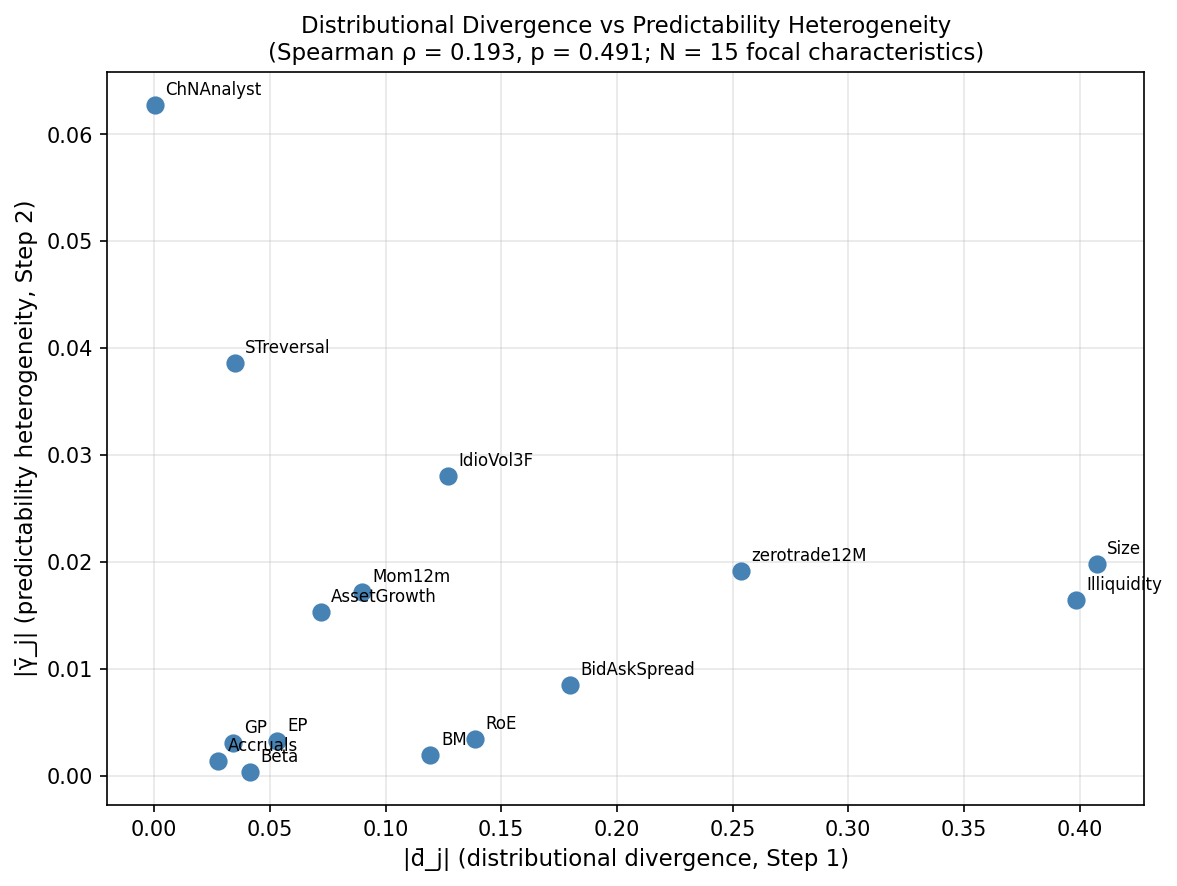
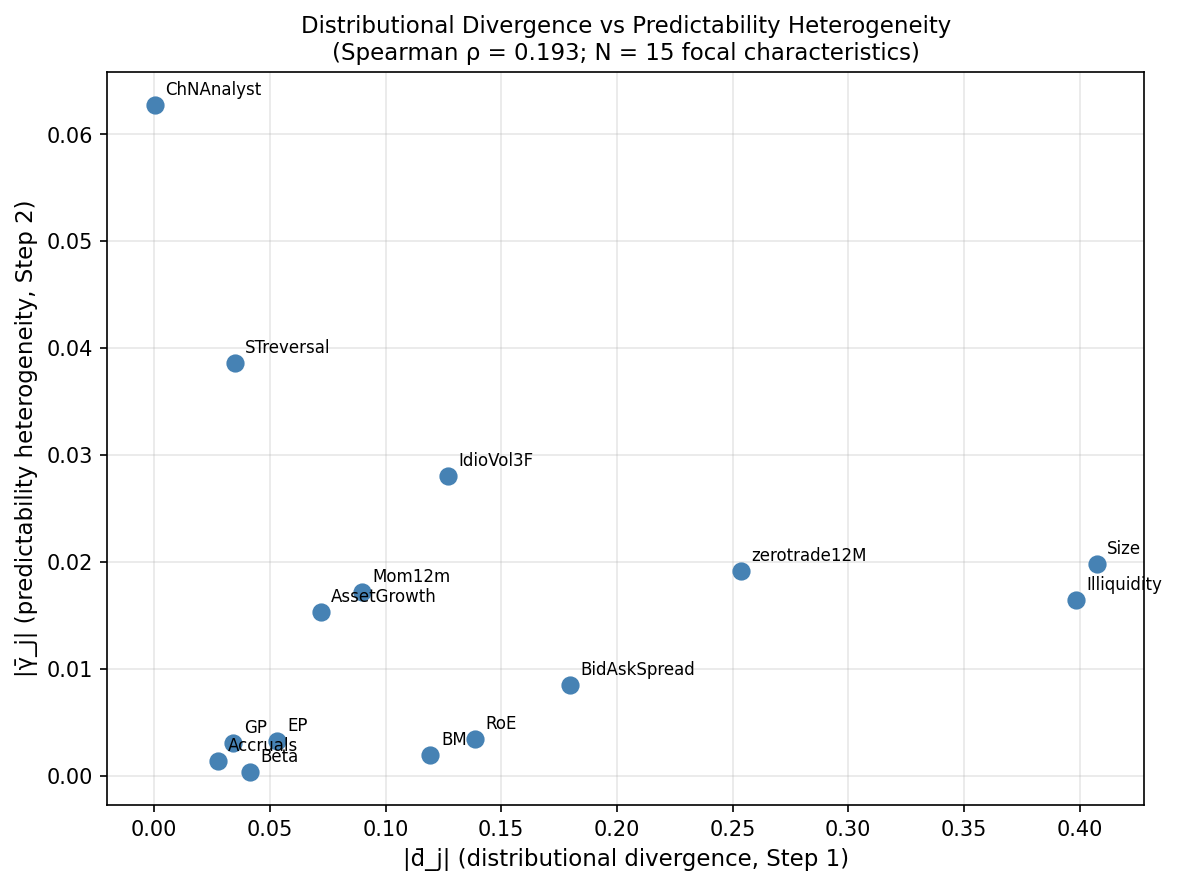
Update Steps 1-2: formatted quintile table, F-stat tracking, scatter fix
- Add format_quintile_table() for academic "β (t)" presentation style
- Save raw + formatted quintile FM coefficients
- Include F-statistic and degrees of freedom in interaction_meta.json
- Remove p-value from divergence vs heterogeneity scatter title
- Category table columns renamed to match document template

Changed region(s): [[0.2447, 0.0305, 0.8258, 0.0914]]

diff --git a/scripts/06_step2_heterogeneity.py b/scripts/06_step2_heterogeneity.py
@@ -36,6 +36,7 @@ from src.config import load_config, get_data_dir, get_output_dir
 from src.analysis.motivation import (
     assign_nyse_quintiles,
     quintile_fama_macbeth,
+    format_quintile_table,
     interaction_fama_macbeth,
     plot_quintile_coefficients,
     plot_divergence_vs_heterogeneity,
@@ -115,23 +116,26 @@ def main():
     logger.info("=" * 60)
     logger.info("Output 2.1: Quintile-specific Fama-MacBeth regressions")
     q_results = quintile_fama_macbeth(panel, focal, "liq_quintile")
+
+    # Raw coefficients (for programmatic use)
     q_results["coef_table"].to_csv(
+        output_dir / "quintile_fm_coefficients_raw.csv", index=False
+    )
+
+    # Formatted table: "β̄ (t-stat)" per cell
+    formatted = format_quintile_table(q_results["coef_table"])
+    formatted.to_csv(
         output_dir / "quintile_fm_coefficients.csv", index=False
     )
-    logger.info("\n%s", q_results["coef_table"].to_string(index=False))
+    logger.info("Quintile FM table (formatted):\n%s", formatted.to_string(index=False))
 
     # Count features with significant Q5-Q1 difference
     ct = q_results["coef_table"]
     n_sig_diff = (ct["t_Q5-Q1"].abs() > 2).sum()
     logger.info("Features with significant Q5-Q1 difference: %d/%d", n_sig_diff, len(ct))
 
-    # LaTeX table
-    tex_cols = ["feature", "beta_Q1", "t_Q1", "beta_Q3", "t_Q3", "beta_Q5", "t_Q5", "beta_Q5-Q1", "t_Q5-Q1"]
-    tex_df = ct[[c for c in tex_cols if c in ct.columns]].copy()
-    for c in tex_df.columns:
-        if c.startswith("beta_") or c.startswith("t_"):
-            tex_df[c] = tex_df[c].round(4)
-    tex_df.to_latex(
+    # LaTeX table (formatted with β (t) cells)
+    formatted.to_latex(
         tex_dir / "QuintileFM.tex",
         index=False,
         caption="Fama-MacBeth Coefficients by Liquidity Quintile",
@@ -202,8 +206,12 @@ def main():
 
     # Save metadata
     meta = {
+        "f_test_stat_continuous": int_results["f_test_stat"],
         "f_test_pvalue_continuous": int_results["f_test_pvalue"],
+        "f_test_df_continuous": int_results["f_test_df"],
+        "f_test_stat_dummy": int_dummy["f_test_stat"],
         "f_test_pvalue_dummy": int_dummy["f_test_pvalue"],
+        "f_test_df_dummy": int_dummy["f_test_df"],
         "n_months": int_results["n_months"],
         "n_sig_gamma_continuous": int(n_sig_gamma),
         "n_sig_gamma_dummy": int((int_dummy["coef_table"]["gamma_t"].abs() > 2).sum()),

diff --git a/src/analysis/motivation.py b/src/analysis/motivation.py
@@ -877,6 +877,45 @@ def quintile_fama_macbeth(
     }
 
 
+def format_quintile_table(
+    coef_table: pd.DataFrame,
+    beta_fmt: str = ".4f",
+    t_fmt: str = ".2f",
+) -> pd.DataFrame:
+    """Format quintile FM coefficients into academic presentation style.
+
+    Produces a table matching the document's Output 2.1 template:
+        Feature | Q1 (illiq) | Q2 | Q3 | Q4 | Q5 (liq) | Q5-Q1
+
+    Each cell shows β̄ with t-statistic in parentheses, e.g. "0.0313 (10.91)".
+    """
+    rows = []
+    for _, r in coef_table.iterrows():
+        row = {"Feature": r["feature"]}
+        for q in [1, 2, 3, 4, 5]:
+            b = r.get(f"beta_Q{q}", np.nan)
+            t = r.get(f"t_Q{q}", np.nan)
+            if pd.notna(b) and pd.notna(t):
+                row[f"Q{q}"] = f"{b:{beta_fmt}} ({t:{t_fmt}})"
+            else:
+                row[f"Q{q}"] = ""
+        # Q5-Q1
+        b = r.get("beta_Q5-Q1", np.nan)
+        t = r.get("t_Q5-Q1", np.nan)
+        if pd.notna(b) and pd.notna(t):
+            row["Q5-Q1"] = f"{b:{beta_fmt}} ({t:{t_fmt}})"
+        else:
+            row["Q5-Q1"] = ""
+        rows.append(row)
+
+    formatted = pd.DataFrame(rows)
+    formatted = formatted.rename(columns={
+        "Q1": "Q1 (illiq)",
+        "Q5": "Q5 (liq)",
+    })
+    return formatted
+
+
 def interaction_fama_macbeth(
     panel: pd.DataFrame,
     focal_features: list[str],
@@ -1008,13 +1047,17 @@ def interaction_fama_macbeth(
             from scipy.stats import f as f_dist
             f_pvalue = float(1 - f_dist.cdf(f_stat, k, T - k))
         except np.linalg.LinAlgError:
+            f_stat = np.nan
             f_pvalue = np.nan
     else:
+        f_stat = np.nan
         f_pvalue = np.nan
 
     return {
         "coef_table": coef_table,
+        "f_test_stat": f_stat,
         "f_test_pvalue": f_pvalue,
+        "f_test_df": (k, T - k),
         "n_months": len(beta_df),
     }
 
@@ -1139,7 +1182,7 @@ def plot_divergence_vs_heterogeneity(
     ax.set_ylabel("|γ̄_j| (predictability heterogeneity, Step 2)", fontsize=11)
     ax.set_title(
         "Distributional Divergence vs Predictability Heterogeneity\n"
-        f"(Spearman ρ = {rho:.3f}, p = {p_val:.3f}; N = {len(df)} focal characteristics)",
+        f"(Spearman ρ = {rho:.3f}; N = {len(df)} focal characteristics)",
         fontsize=11,
     )
     ax.grid(True, alpha=0.3)
